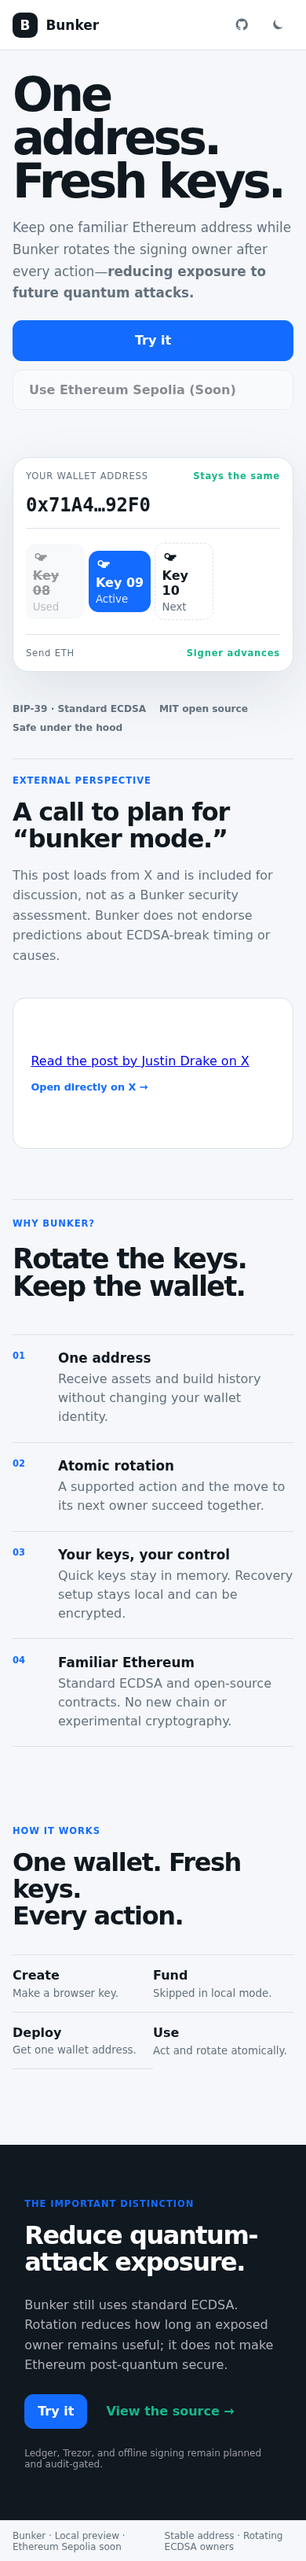
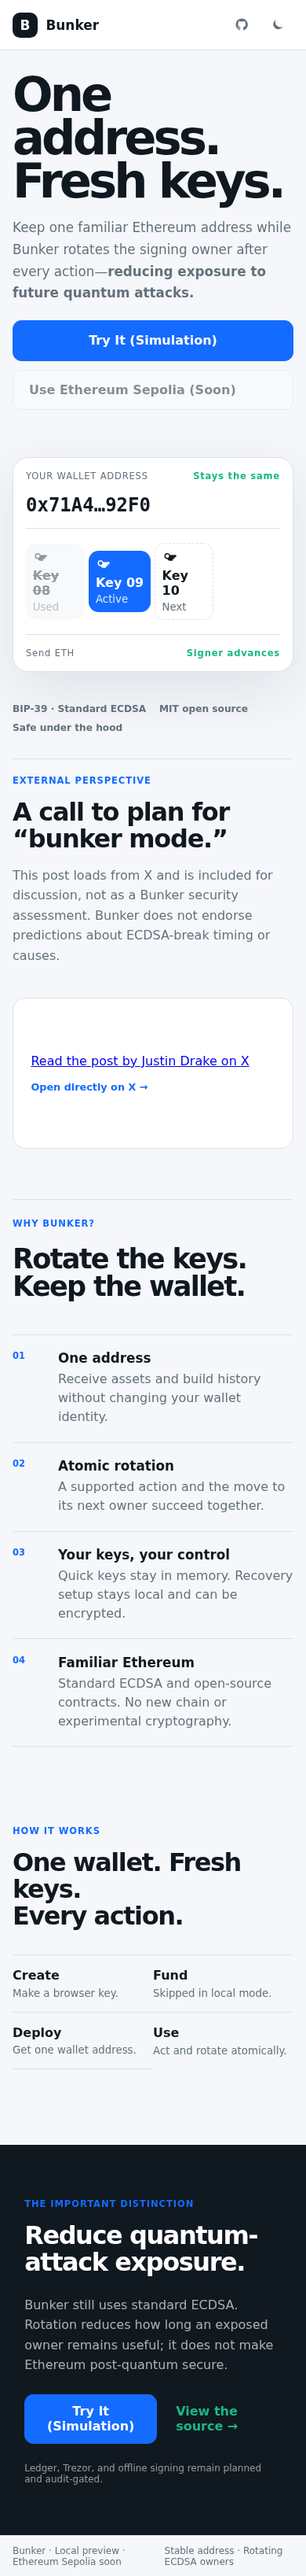
Clarify simulation and testnet actions

diff --git a/apps/web/src/App.tsx b/apps/web/src/App.tsx
@@ -41,7 +41,7 @@ export default function App(){
  onCleanup(()=>{wipe();localPreviewMnemonic=undefined;clearEphemeralBurner()});
  return <div class={`site ${theme()}`}><header class="top"><button class="brand" onClick={()=>go("landing")}><span>B</span>Bunker</button><nav><Show when={walletAddress()}><button onClick={()=>go("wallet")}>Wallet</button></Show><button onClick={()=>go("advanced")}>Setup options</button><a class="nav-icon" href="https://github.com/SilentCicero/bunker-wallet" target="_blank" rel="noreferrer" aria-label="View Bunker on GitHub"><NavIcon name="github"/></a><button class="nav-icon" aria-label={theme()==="light"?"Use dark mode":"Use light mode"} title={theme()==="light"?"Use dark mode":"Use light mode"} onClick={()=>setTheme(theme()==="light"?"dark":"light")}><NavIcon name={theme()==="light"?"moon":"sun"}/></button><Show when={walletAddress()||(mode()==="sepolia"&&setupAddress())}><button class="nav-exit" onClick={exit}>{mode()==="sepolia"?"Lock":"Exit"}</button></Show></nav></header><Show when={notice()}><div class="toast" role="status">{notice()}</div></Show>
  <main>
- <Show when={view()==="landing"}><section class="hero-new"><div class="hero-copy"><h1>One address.<br/>Fresh keys.</h1><p>Keep one familiar Ethereum address while Bunker rotates the signing owner after every action—<strong>reducing exposure to future quantum attacks.</strong></p><div class="hero-actions"><button class="primary" onClick={begin}>Try it</button><button class="button-link" disabled={!browserSepoliaE2E} onClick={browserSepoliaE2E?()=>{if(savedVault()){setMode("sepolia");go("load")}else createPhrase()}:undefined}>{browserSepoliaE2E?(savedVault()?"Resume saved wallet":"Create Sepolia Wallet"):"Use Ethereum Sepolia (Soon)"}</button></div><Show when={browserSepoliaE2E}><small class="test-label">Sepolia testnet · Unaudited · Test ETH only</small></Show></div><div class="mechanism" aria-label="Stable Safe address with rotating owner keys"><div class="address-head"><span>YOUR WALLET ADDRESS</span><b>Stays the same</b></div><code>0x71A4…92F0</code><div class="key-track"><div class="key spent"><Icon/><span>Key 08</span><small>Used</small></div><i>→</i><div class="key active"><Icon/><span>Key 09</span><small>Active</small></div><i>→</i><div class="key next"><Icon/><span>Key 10</span><small>Next</small></div></div><div class="action-line"><span>Send ETH</span><b>Signer advances</b></div></div></section><div class="trust-line"><span>BIP-39 · Standard ECDSA</span><span>MIT open source</span><span>Safe under the hood</span></div><section class="external-post"><div class="post-context"><span>External perspective</span><h2>A call to plan for “bunker mode.”</h2><p>This post loads from X and is included for discussion, not as a Bunker security assessment. Bunker does not endorse predictions about ECDSA-break timing or causes.</p></div><div class="post-embed"><blockquote class="twitter-tweet" data-dnt="true"><a href="https://x.com/drakefjustin/status/2107837081313505768">Read the post by Justin Drake on X</a></blockquote><a class="post-link" href="https://x.com/drakefjustin/status/2107837081313505768" target="_blank" rel="noreferrer">Open directly on X →</a></div></section><section class="why" id="how-it-works"><div class="why-head"><span>Why Bunker?</span><h2>Rotate the keys.<br/>Keep the wallet.</h2></div><div class="why-list"><article><b>01</b><div><h3>One address</h3><p>Receive assets and build history without changing your wallet identity.</p></div></article><article><b>02</b><div><h3>Atomic rotation</h3><p>A supported action and the move to its next owner succeed together.</p></div></article><article><b>03</b><div><h3>Your keys, your control</h3><p>Quick keys stay in memory. Recovery setup stays local and can be encrypted.</p></div></article><article><b>04</b><div><h3>Familiar Ethereum</h3><p>Standard ECDSA and open-source contracts. No new chain or experimental cryptography.</p></div></article></div></section><section class="flow"><span>How it works</span><h2>One wallet. Fresh keys.<br/>Every action.</h2><ol><li><b>Create</b><small>Make a browser key.</small></li><li><b>Fund</b><small>Skipped in local mode.</small></li><li><b>Deploy</b><small>Get one wallet address.</small></li><li><b>Use</b><small>Act and rotate atomically.</small></li></ol></section><section class="roadmap"><div><span>The important distinction</span><h2>Reduce quantum-<br/>attack exposure.</h2></div><p>Bunker still uses standard ECDSA. Rotation reduces how long an exposed owner remains useful; it does not make Ethereum post-quantum secure.</p><div class="roadmap-links"><button class="primary" onClick={begin}>Try it</button><a href="https://github.com/SilentCicero/bunker-wallet" target="_blank" rel="noreferrer">View the source →</a></div><small>Ledger, Trezor, and offline signing remain planned and audit-gated.</small></section></Show>
+ <Show when={view()==="landing"}><section class="hero-new"><div class="hero-copy"><h1>One address.<br/>Fresh keys.</h1><p>Keep one familiar Ethereum address while Bunker rotates the signing owner after every action—<strong>reducing exposure to future quantum attacks.</strong></p><div class="hero-actions"><button class="primary" onClick={begin}>Try It (Simulation)</button><button class="button-link" disabled={!browserSepoliaE2E} onClick={browserSepoliaE2E?()=>{if(savedVault()){setMode("sepolia");go("load")}else createPhrase()}:undefined}>{browserSepoliaE2E?(savedVault()?"Resume saved wallet":"Create Wallet (Testnet)"):"Use Ethereum Sepolia (Soon)"}</button></div><Show when={browserSepoliaE2E}><small class="test-label">Sepolia testnet · Unaudited · Test ETH only</small></Show></div><div class="mechanism" aria-label="Stable Safe address with rotating owner keys"><div class="address-head"><span>YOUR WALLET ADDRESS</span><b>Stays the same</b></div><code>0x71A4…92F0</code><div class="key-track"><div class="key spent"><Icon/><span>Key 08</span><small>Used</small></div><i>→</i><div class="key active"><Icon/><span>Key 09</span><small>Active</small></div><i>→</i><div class="key next"><Icon/><span>Key 10</span><small>Next</small></div></div><div class="action-line"><span>Send ETH</span><b>Signer advances</b></div></div></section><div class="trust-line"><span>BIP-39 · Standard ECDSA</span><span>MIT open source</span><span>Safe under the hood</span></div><section class="external-post"><div class="post-context"><span>External perspective</span><h2>A call to plan for “bunker mode.”</h2><p>This post loads from X and is included for discussion, not as a Bunker security assessment. Bunker does not endorse predictions about ECDSA-break timing or causes.</p></div><div class="post-embed"><blockquote class="twitter-tweet" data-dnt="true"><a href="https://x.com/drakefjustin/status/2107837081313505768">Read the post by Justin Drake on X</a></blockquote><a class="post-link" href="https://x.com/drakefjustin/status/2107837081313505768" target="_blank" rel="noreferrer">Open directly on X →</a></div></section><section class="why" id="how-it-works"><div class="why-head"><span>Why Bunker?</span><h2>Rotate the keys.<br/>Keep the wallet.</h2></div><div class="why-list"><article><b>01</b><div><h3>One address</h3><p>Receive assets and build history without changing your wallet identity.</p></div></article><article><b>02</b><div><h3>Atomic rotation</h3><p>A supported action and the move to its next owner succeed together.</p></div></article><article><b>03</b><div><h3>Your keys, your control</h3><p>Quick keys stay in memory. Recovery setup stays local and can be encrypted.</p></div></article><article><b>04</b><div><h3>Familiar Ethereum</h3><p>Standard ECDSA and open-source contracts. No new chain or experimental cryptography.</p></div></article></div></section><section class="flow"><span>How it works</span><h2>One wallet. Fresh keys.<br/>Every action.</h2><ol><li><b>Create</b><small>Make a browser key.</small></li><li><b>Fund</b><small>Skipped in local mode.</small></li><li><b>Deploy</b><small>Get one wallet address.</small></li><li><b>Use</b><small>Act and rotate atomically.</small></li></ol></section><section class="roadmap"><div><span>The important distinction</span><h2>Reduce quantum-<br/>attack exposure.</h2></div><p>Bunker still uses standard ECDSA. Rotation reduces how long an exposed owner remains useful; it does not make Ethereum post-quantum secure.</p><div class="roadmap-links"><button class="primary" onClick={begin}>Try It (Simulation)</button><a href="https://github.com/SilentCicero/bunker-wallet" target="_blank" rel="noreferrer">View the source →</a></div><small>Ledger, Trezor, and offline signing remain planned and audit-gated.</small></section></Show>
  <Show when={view()==="setup"}><section class="setup"><Show when={mode()==="sepolia"&&recoverable()}><SepoliaCreationStepper current={setupBalance()>=parseEther("0.03")?4:3}/></Show><h1>{mode()==="local"?"Your local preview is ready.":setupBalance()>=parseEther("0.03")?"Create your Safe wallet.":"Add Ethereum Sepolia test ETH."}</h1><p>{mode()==="local"?"No faucet, wallet connection, or blockchain transaction. Everything stays in this tab.":setupBalance()>=parseEther("0.03")?"Your setup key is funded. Create the guarded Safe and move the test ETH into its permanent address.":"Your temporary setup address is ready and copied when you open the faucet. The unaudited Safe supports 19 rotations and has no migration path. This unaudited public test build is restricted to Sepolia test ETH."}</p><Show when={!recoverable()}><p class="ephemeral-note">Quick setup is memory-only. Do not refresh during funding or after wallet creation. Use Recovery phrase setup if you want restoration later.</p></Show><Show when={recoverable()}><p class="saved-note">{savedVault()?"Saved on this browser, encrypted with your password. Refresh requires unlock.":"Saved to this browser with a non-extractable device key. Keep the recovery phrase offline."}</p></Show><div class="setup-address"><span>Setup address</span><code>{setupAddress()}</code><button onClick={()=>copy(setupAddress())}>Copy</button></div><div class="balance-row"><span>{mode()==="local"?"Preview balance":"Setup balance"}</span><strong>{Number(formatEther(setupBalance())).toFixed(4)} ETH</strong></div><Show when={mode()==="local"||setupBalance()>=parseEther("0.03")} fallback={<div class="setup-actions"><button class="primary" onClick={openFaucet}>Open Google Cloud faucet</button><button onClick={checkFunding} disabled={Boolean(busy())}>{busy()||"I funded it — check balance"}</button></div>}><button class="primary wide" onClick={walletAddress()?checkCreatedSafe:createStableWallet} disabled={Boolean(busy())||checking()}>{busy()||checking()|| (walletAddress()?"Check Safe status":"Create guarded Safe")}</button><Show when={mode()==="sepolia"&&busy()}><section class="deploy-status" aria-live="polite"><div class="deploy-spinner" aria-hidden="true"/><div><h2>Deploying your guarded Safe</h2><p>Creating the guard, Safe proxy, and funding transaction. This usually takes 1–3 minutes. Keep this tab open.</p></div><ol><li>Verify official Safe components</li><li>Install the rotation guard</li><li>Create and fund your stable address</li></ol><button onClick={checkCreatedSafe} disabled={checking()}>{checking()?"Checking Sepolia…":"Check deployment status"}</button></section></Show></Show><button class="text-button" onClick={()=>go("advanced")}>Use another setup method</button></section></Show>
  <Show when={view()==="wallet"&&walletAddress()}><section class="wallet"><div class="wallet-top"><div><span class="status-dot">{mode()==="local"?"Local preview · simulated, not broadcast":"Ethereum Sepolia Safe · live"}</span><h1>{Number(formatEther(walletBalance())).toFixed(4)} ETH</h1></div><div class="rotation-card"><span>OWNER ROTATION</span><strong>Key {rotation()+1}</strong><p>Active underneath your stable address</p><div><i style={{width:`${Math.min(100,(rotation()+1)*8)}%`}}/></div></div></div><Show when={mode()==="sepolia"}><p class="session-note">This browser stays unlocked across refreshes and restarts until you select Lock or clear site data. Anyone controlling this browser profile, origin, or an extension can use an unlocked wallet.</p></Show><div class="stable"><span>Stable Safe address</span><button class="stable-copy" aria-label="Copy stable Safe address" onClick={()=>copy(walletAddress())}><code>{walletAddress()}</code><span>Copy</span></button><b>Does not change</b></div><Show when={mode()==="local"}><section class="signer-sequence"><div><span>Preview signing sequence</span><small>BIP-39 → hardened BIP-32 · memory-only mnemonic · separate wallet and owner branches</small></div><div class="signer-steps"><div><small>Last signer</small><code>{activity()[0]?.usedSigner?short(activity()[0]?.usedSigner!):"—"}</code></div><i>→</i><div class="current"><small>Active signer · Key {rotation()+1}</small><code>{owner()&&short(owner()!)}</code></div><i>→</i><div><small>Next signer · Key {rotation()+2}</small><code>{nextSigner()&&short(nextSigner()!)}</code></div></div></section></Show><div class="wallet-grid"><section class="actions-panel"><h2>Send ETH</h2><label>Recipient<input ref={to} value="vitalik.eth" placeholder="0x… or name.eth"/><small>ENS uses Ethereum mainnet resolution. Paste a 0x address if name resolution is unavailable.</small></label><label>Amount<input ref={amount} value="0.0001" inputmode="decimal" placeholder="0.001"/></label><button class="primary wide" onClick={runETH} disabled={Boolean(busy())||(mode()==="sepolia"&&rotation()>=19)}>{busy()||(mode()==="sepolia"&&rotation()>=19?"Sequence exhausted":"Send + rotate key")}</button></section><aside class="activity"><h2>Signing rotation history</h2><p class="history-intro">{mode()==="sepolia"?"Linked sends transfer ETH and advance the Safe owner in one guarded operation. Open any entry to inspect its actual Sepolia transaction, calldata, and logs.":"Your wallet address stays fixed. Each simulated action advances the signer."}</p><For each={activity()}>{item=><HistoryEntry item={item} rotation={rotation()}/>}</For></aside></div></section></Show>
  <Show when={view()==="advanced"}><section class="advanced"><button class="back" onClick={()=>go("landing")}>← Back</button><h1>Choose how to protect the setup key.</h1><p>Each method creates a stable Safe address with automatic owner rotation.</p><div class="option-list"><button disabled><span>{browserSepoliaE2E?"Quick Sepolia setup disabled":"Use Ethereum Sepolia (Soon)"}</span><small>{browserSepoliaE2E?"Encrypted recovery is required so refresh cannot lose access":"Unaudited · public Sepolia test build · 19 rotations"}</small><b>Soon</b></button><button disabled={!browserSepoliaE2E} onClick={browserSepoliaE2E?createPhrase:undefined}><span>Recovery phrase</span><small>24 words · available with Sepolia</small><b>{browserSepoliaE2E?"Set up":"Soon"}</b></button><button disabled={!browserSepoliaE2E} onClick={browserSepoliaE2E?()=>{setMode("sepolia");go("load")}:undefined}><span>Load existing wallet</span><small>Encrypted vault or 24 words</small><b>{browserSepoliaE2E?"Load":"Soon"}</b></button><button disabled><span>Ledger</span><small>Hardware setup · compatibility verification in progress</small><b>Soon</b></button><button disabled><span>Trezor</span><small>Hardware setup · compatibility verification in progress</small><b>Soon</b></button><button disabled><span>EVM wallet</span><small>Manual next-key proof required</small><b>Soon</b></button></div></section></Show>

diff --git a/tests/e2e/web.e2e.ts b/tests/e2e/web.e2e.ts
@@ -25,7 +25,7 @@ for (const [name, width, height] of views) {
     await page.setViewportSize({ width, height });
     await page.goto("/");
     await expect(page.getByRole("heading", { name: /One address.*Fresh keys/s })).toBeVisible();
-    await expect(page.getByRole("button", { name: "Try it" }).first()).toBeVisible();
+    await expect(page.getByRole("button", { name: "Try It (Simulation)" }).first()).toBeVisible();
     await expect(page.getByRole("button", { name: "Use Ethereum Sepolia (Soon)" })).toBeDisabled();
     await expect(page.getByText(/reducing exposure to future quantum attacks/)).toBeVisible();
     await expect(page.getByText("Rotate the keys.")).toBeVisible();
@@ -45,7 +45,7 @@ test("local preview rotates without blockchain access", async ({ page }) => {
   const blockchainRequests: string[] = [];
   page.on("request", request => { if (/ethereum-sepolia-rpc|cloud\.google\.com\/application\/web3\/faucet/.test(request.url())) blockchainRequests.push(request.url()); });
   await page.goto("/");
-  await page.getByRole("button", { name: "Try it" }).first().click();
+  await page.getByRole("button", { name: "Try It (Simulation)" }).first().click();
   await expect(page.getByText("Local preview · simulated, not broadcast")).toBeVisible();
   await expect(page.getByText(/BIP-39 → hardened BIP-32/)).toBeVisible();
   expect(await page.evaluate(() => Object.keys(localStorage).every(key => !/mnemonic|seed|phrase/i.test(key)))).toBe(true);
@@ -82,7 +82,7 @@ test("Ethereum Sepolia remains disabled", async ({ page }) => {
 test("Sepolia persistence: encrypted wallet survives refresh and relogin", async ({ page }) => {
   test.skip(process.env.BROWSER_SEPOLIA_E2E !== "1");
   await page.goto("/");
-  await page.getByRole("button", { name: "Create Sepolia Wallet" }).click();
+  await page.getByRole("button", { name: "Create Wallet (Testnet)" }).click();
   await expect(page.locator('.stepper [aria-current="step"]')).toContainText("Back up phrase");
   await page.getByRole("checkbox").check();
   await page.getByRole("button", { name: "Skip check" }).click();
@@ -121,7 +121,7 @@ test("Sepolia persistence: encrypted wallet survives refresh and relogin", async
 test("Sepolia persistence: passwordless wallet survives tab closure", async ({ page }) => {
   test.skip(process.env.BROWSER_SEPOLIA_E2E !== "1");
   await page.goto("/");
-  await page.getByRole("button", { name: "Create Sepolia Wallet" }).click();
+  await page.getByRole("button", { name: "Create Wallet (Testnet)" }).click();
   await page.getByRole("checkbox").check();
   await page.getByRole("button", { name: "Skip check" }).click();
   await expect(page.getByText(/non-extractable device key/)).toBeVisible();
@@ -140,7 +140,7 @@ test("Sepolia persistence: browser restart restores until Lock", async () => {
   try{
     let context=await chromium.launchPersistentContext(profile,{serviceWorkers:"block"}),page=await context.newPage();
     await page.goto("http://127.0.0.1:4173");
-    await page.getByRole("button",{name:"Create Sepolia Wallet"}).click();
+    await page.getByRole("button",{name:"Create Wallet (Testnet)"}).click();
     await page.getByRole("checkbox").check();await page.getByRole("button",{name:"Skip check"}).click();
     await page.getByRole("button",{name:"Continue without password"}).click();
     await expect(page.getByRole("heading",{name:"Add Ethereum Sepolia test ETH."})).toBeVisible();
